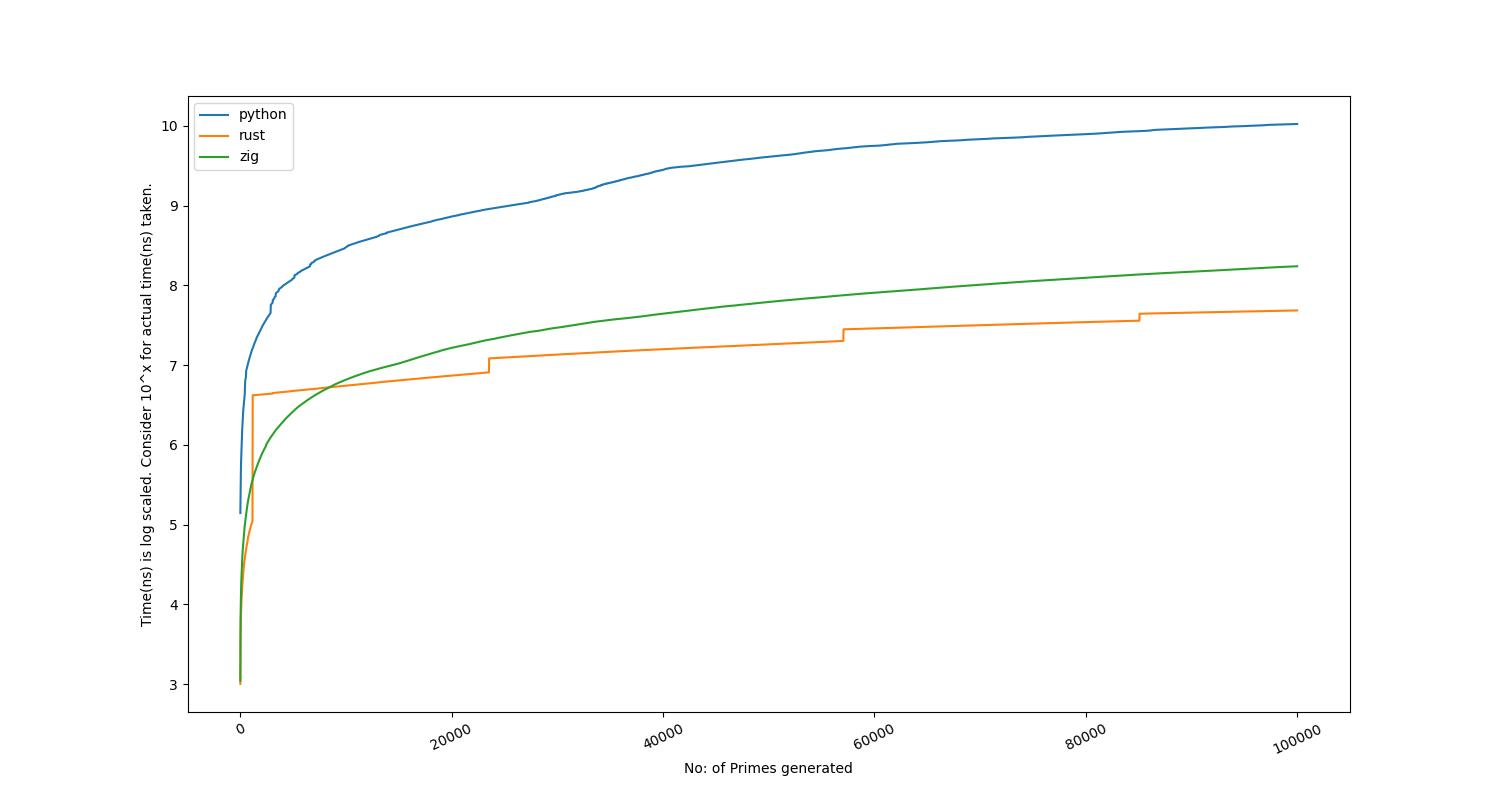
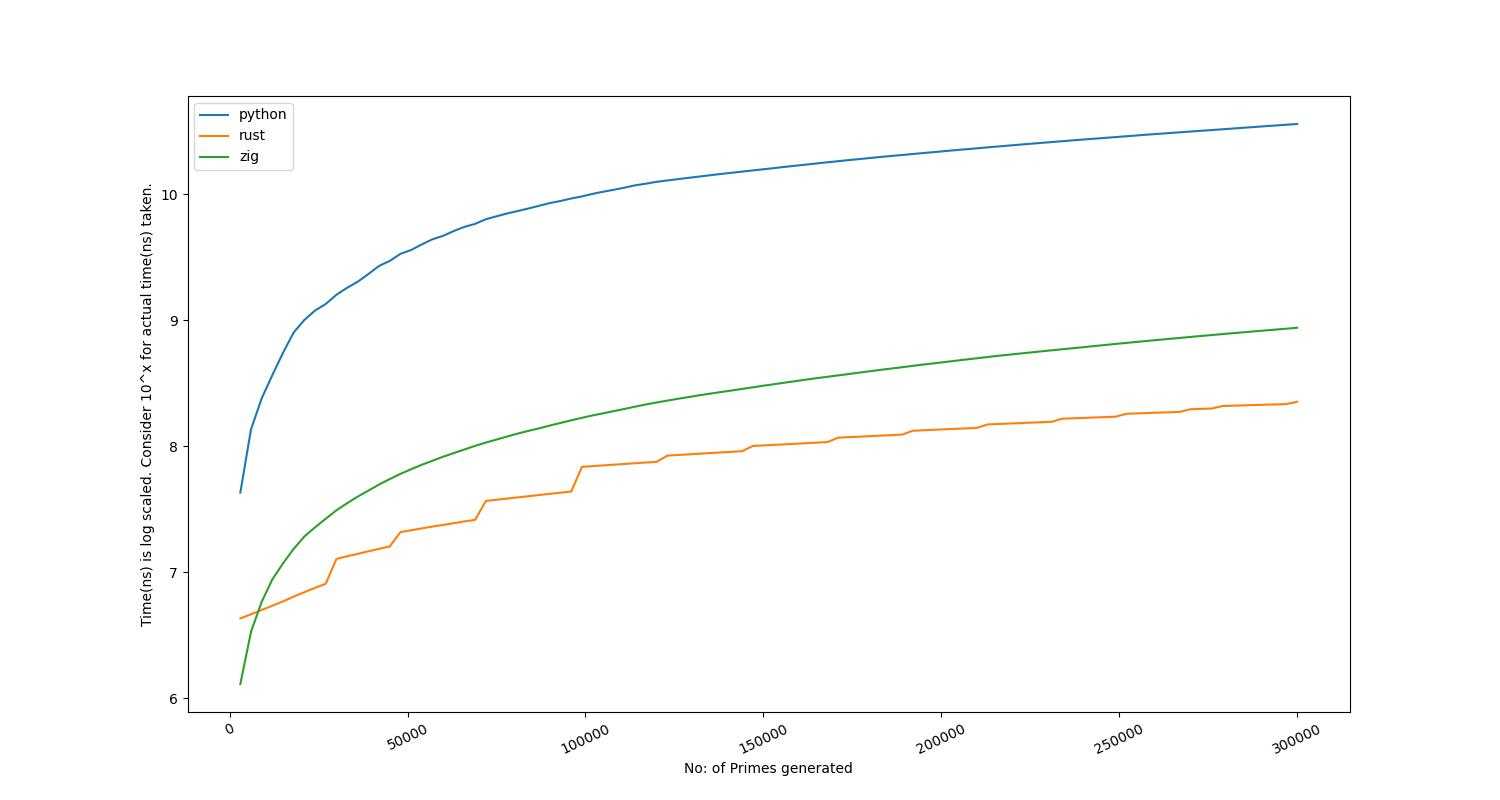
benchmark image and updated Reamdme

diff --git a/README.md b/README.md
@@ -7,6 +7,6 @@ Note: The above graph is autogenerated for every github action run. Tweak the pa
 
 |Language|nth prime|time taken|
 |---|---|---|
-|python|100000|10.583s|
-|rust|100000|0.049s|
-|zig|100000|0.174s|
+|python|300000|36.166s|
+|rust|300000|0.225s|
+|zig|300000|0.872s|
